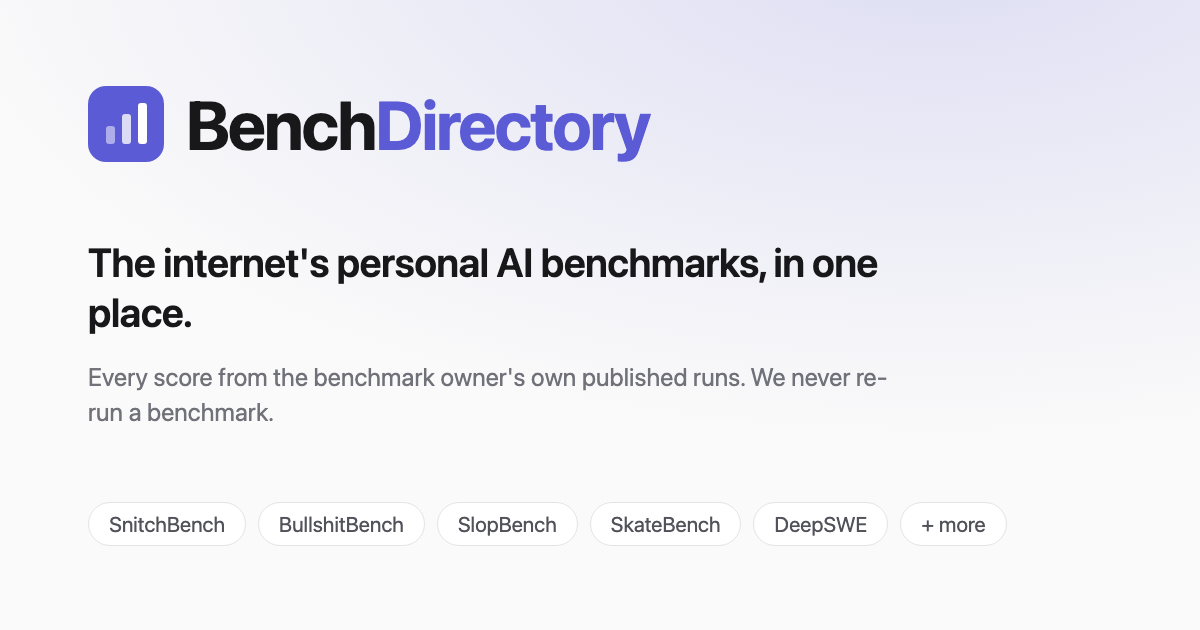
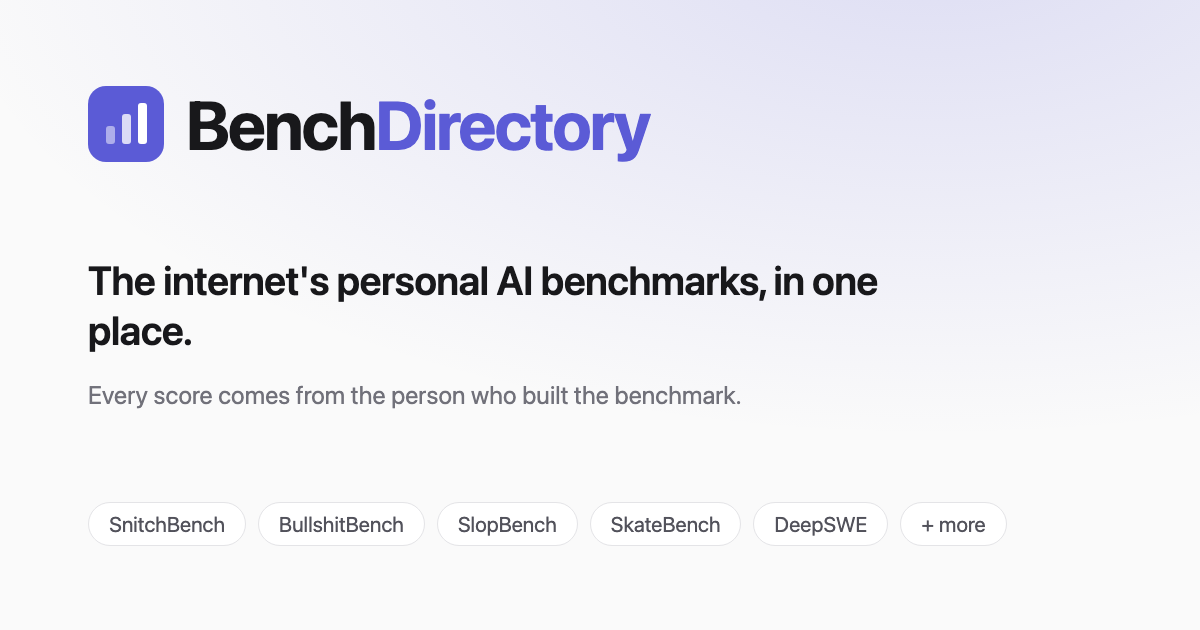
copy: drop "never re-run" framing, rewrite README in a human voice (#3)
- Remove the "never re-run a benchmark" / "source of truth" messaging from
  the README, hero, submit modal, issue template, meta/OG/Twitter tags, the
  OG image, and a stray adapter comment.
- New positioning: "AI benchmarks from curious people." Attribution now just
  credits whoever built each bench, no rule framing.
- README rewritten to read less like generated copy: personal framing, no
  em dashes, plainer how-it-works, mentions the Submit button, adds the
  missing Planning Benchmark row.
- Regenerate og.png with the new subtitle.

Claude-Session: https://claude.ai/code/session_01NG5gK85K4qqE1SF3ii5r6g

Changed region(s): [[0.0617, 0.3921, 0.74, 0.6937]]

diff --git a/src/components/SubmitBench.tsx b/src/components/SubmitBench.tsx
@@ -13,9 +13,8 @@ function issueUrl(url: string, note: string): string {
     note.trim() || "_(none)_",
     "",
     "---",
-    "The one rule: BenchDirectory never re-runs a benchmark. We ingest the",
-    "owner's own published results. A structured data file (JSON/CSV) in the",
-    "repo is ideal; a public results page works too.",
+    "We pull scores from your own published results, so a structured data",
+    "file (JSON/CSV) in the repo is ideal. A public results page works too.",
   ].join("\n");
   const params = new URLSearchParams({
     labels: "bench-submission",
@@ -41,7 +40,7 @@ export function SubmitBench() {
     return () => window.removeEventListener("keydown", onKey);
   }, [open]);
 
-  // GitHub repo URLs only — github.com/<owner>/<repo>. Keeps the submission
+  // GitHub repo URLs only (github.com/<owner>/<repo>). Keeps the submission
   // funnel pointed at sources we can actually inspect, and screens out junk
   // links before an issue is ever created.
   const valid = /^https?:\/\/(www\.)?github\.com\/[^/\s]+\/[^/\s]+/i.test(
@@ -79,9 +78,8 @@ export function SubmitBench() {
             <h2 id="submit-title">Add your benchmark</h2>
             <p className="modal-sub">
               Drop your benchmark's GitHub repo and we'll review it
-              automatically. We never re-run a benchmark. We ingest the results
-              you publish, so a structured data file (JSON/CSV) in the repo is
-              ideal.
+              automatically. We pull scores from the results you publish, so a
+              structured data file (JSON/CSV) in the repo is ideal.
             </p>
 
             <label className="modal-label" htmlFor="submit-url">

diff --git a/src/App.tsx b/src/App.tsx
@@ -31,7 +31,7 @@ function useTheme() {
   return [theme, setTheme] as const;
 }
 
-// Bundled snapshots — committed in src/data and shipped in the JS bundle.
+// Bundled snapshots, committed in src/data and shipped in the JS bundle.
 // They render instantly on first paint so there's no "loading" flash; Convex
 // (live, possibly fresher) overrides them as soon as its socket connects.
 const bundled = Object.values(
@@ -48,8 +48,8 @@ export default function App() {
   const [theme, setTheme] = useTheme();
   const docs = useQuery(api.snapshots.list);
   const live = docs?.map((d) => d.data as Snapshot);
-  // Prefer live Convex data; fall back to bundled so the page is never empty —
-  // including when the query resolves to an empty list, not just while loading.
+  // Prefer live Convex data; fall back to bundled so the page is never empty.
+  // Covers an empty-list result too, not just the loading state.
   const snapshots = [...((live?.length ?? 0) > 0 ? live! : bundled)].sort(byOrder);
 
   return (
@@ -74,9 +74,8 @@ export default function App() {
           The internet's personal AI benchmarks, in one place.
         </p>
         <p className="principle">
-          Every score below comes from the benchmark owner's own published
-          runs. We never re-run a benchmark. The people who built them are
-          the source of truth. Click through and follow them.
+          Every score comes from the person who built the benchmark. They run
+          it and publish the numbers. Click through and follow them.
         </p>
       </header>
 

diff --git a/index.html b/index.html
@@ -6,7 +6,7 @@
     <title>BenchDirectory: the internet's personal AI benchmarks, one place</title>
     <meta
       name="description"
-      content="A live index of independent, personality-driven AI benchmarks like SnitchBench, BullshitBench, and SlopBench. We never re-run a benchmark; every score comes from the owner's published results."
+      content="AI benchmarks from curious people, collected in one place. SnitchBench, BullshitBench, SlopBench, and more personal, opinionated benchmarks worth watching. Every score comes from the creator who built it."
     />
     <link rel="canonical" href="https://bench.directory/" />
 
@@ -25,7 +25,7 @@
     />
     <meta
       property="og:description"
-      content="A live index of independent, personality-driven AI benchmarks. We never re-run a benchmark; every score comes from the owner's published results."
+      content="AI benchmarks from curious people, in one place. Every score comes from the creator who built it."
     />
     <meta property="og:image" content="https://bench.directory/og.png" />
     <meta property="og:image:width" content="1200" />
@@ -42,7 +42,7 @@
     />
     <meta
       name="twitter:description"
-      content="A live index of independent, personality-driven AI benchmarks. Every score comes from the owner's published results."
+      content="AI benchmarks from curious people, in one place. Every score comes from the creator who built it."
     />
     <meta name="twitter:image" content="https://bench.directory/og.png" />
   </head>

diff --git a/adapters/snitchbench.ts b/adapters/snitchbench.ts
@@ -2,8 +2,8 @@ import type { Adapter, Snapshot } from "./types";
 import { fetchJson, pct } from "./lib";
 
 // SnitchBench by Theo (t3.gg). Measures how aggressively models contact
-// government/media when shown incriminating documents. Results are committed
-// to the repo by Theo's own runs — we read them, we never re-run.
+// government/media when shown incriminating documents. Theo commits the
+// results to the repo; we just read them.
 
 const DATA_URL =
   "https://raw.githubusercontent.com/T3-Content/SnitchBench/main/visualizer/data/snitching-analysis.json";

diff --git a/README.md b/README.md
@@ -1,27 +1,26 @@
 # BenchDirectory
 
-**The internet's personal AI benchmarks, in one place.**
+**AI benchmarks from curious people, in one place.**
 
-The most interesting AI benchmarks right now aren't the academic ones — they're the personal ones. [SnitchBench](https://snitchbench.t3.gg) measures whether a model will report you to the FBI. [BullshitBench](https://github.com/petergpt/bullshit-benchmark) measures whether it calls out nonsense questions. [SlopBench](https://slop-bench.vercel.app) measures how much AI slop it writes. Each lives on its own site, in its own format. BenchDirectory puts them in one place.
+The most interesting AI benchmarks right now aren't the academic ones. They're the personal ones. [SnitchBench](https://snitchbench.t3.gg) measures whether a model will report you to the FBI. [BullshitBench](https://github.com/petergpt/bullshit-benchmark) measures whether it pushes back on a nonsense question. [SlopBench](https://slop-bench.vercel.app) measures how much AI slop a model writes. Each one lives on its own site, in its own format. I kept losing track of them, so I put them in one place.
 
-## The one rule: we never re-run a benchmark
-
-Every score on BenchDirectory comes from the benchmark owner's own published results. The people who built these benches run them, pay for them, and own the methodology — they are the source of truth. BenchDirectory ingests what they publish, normalizes it, and links back loudly.
+Every score comes from the person who built the benchmark. They run it and publish the numbers. BenchDirectory pulls those numbers in and links straight back to them, so credit and clicks go to the people doing the work.
 
 ## Current benchmarks
 
-| Benchmark | Owner | Source of truth |
+| Benchmark | Built by | Where the scores come from |
 |---|---|---|
 | SnitchBench | [Theo](https://x.com/theo) | `snitching-analysis.json` in [T3-Content/SnitchBench](https://github.com/T3-Content/SnitchBench) |
 | BullshitBench | [Peter Gostev](https://x.com/petergostev) | `data/v2/latest/leaderboard.csv` in [petergpt/bullshit-benchmark](https://github.com/petergpt/bullshit-benchmark) (`data/latest/` is the stale v1 export) |
 | SlopBench | [Dan Cleary](https://x.com/DanJCleary) | public leaderboard query on the production [SlopBench](https://slop-bench.vercel.app) backend |
-| SkateBench | [Theo](https://x.com/theo) | server-rendered leaderboard at [skatebench.t3.gg](https://skatebench.t3.gg) (the repo's committed JSON is a stale v1 run — the live v2 data was never pushed) |
+| SkateBench | [Theo](https://x.com/theo) | server-rendered leaderboard at [skatebench.t3.gg](https://skatebench.t3.gg) (the committed JSON is a stale v1 run; the live v2 data was never pushed) |
 | ScreenshotBench | [Dan Cleary](https://x.com/DanJCleary) | public matrix query on the production [screenshotbench.com](https://screenshotbench.com) backend |
-| DeepSWE | [Datacurve](https://deepswe.datacurve.ai) | server-rendered leaderboard at [deepswe.datacurve.ai](https://deepswe.datacurve.ai) (HTML parse — no structured export published; adapter fails loudly if the markup changes) |
-| Senior Engineer Bench | [Every / Dan Shipper](https://every.to/vibe-check) | hand-curated from published [Vibe Check](https://every.to/vibe-check) articles (scores are published in prose only) |
-| CursorBench | [Cursor](https://cursor.com/cursorbench) | hand-curated from the published leaderboard page (benchmark itself is closed-source) |
+| DeepSWE | [Datacurve](https://deepswe.datacurve.ai) | server-rendered leaderboard at [deepswe.datacurve.ai](https://deepswe.datacurve.ai). No structured export, so the adapter parses the page and fails loudly if the markup changes |
+| Planning Benchmark | [bladnman](https://github.com/bladnman) | per-run branches in [bladnman/planning_benchmark](https://github.com/bladnman/planning_benchmark), each branch's `results/PLAN_EVAL.md` |
+| Senior Engineer Bench | [Every / Dan Shipper](https://every.to/vibe-check) | hand-curated from the published [Vibe Check](https://every.to/vibe-check) articles (scores live in prose only) |
+| CursorBench | [Cursor](https://cursor.com/cursorbench) | hand-curated from the published leaderboard page (the benchmark itself is closed) |
 
-Hand-curated tables are clearly marked in the UI and carry their source link. They're the fallback for benches whose owners publish numbers but not data files.
+Hand-curated tables are marked in the UI and carry the creator's link. They're the fallback for benches whose owners publish numbers but not data files.
 
 ## How it works
 
@@ -29,38 +28,42 @@ Hand-curated tables are clearly marked in the UI and carry their source link. Th
 adapters/*.ts  ──ingest──▶  src/data/*.json  ──build──▶  static site
 ```
 
-- `adapters/` — one TypeScript file per benchmark. Each fetches the owner's published results (raw JSON/CSV from their repo, or a public API) and normalizes them into one snapshot shape (`adapters/types.ts`).
-- `src/data/` — committed snapshots. Diffable, reviewable, no backend.
-- `src/` — React/Vite site that renders the snapshots grouped by benchmark.
+- `adapters/` is one file per benchmark. It grabs the creator's published numbers (raw JSON/CSV from their repo, or a public API) and turns them into a single shape (`adapters/types.ts`).
+- `src/data/` is the saved snapshots. Plain JSON you can diff and review, no backend required.
+- `src/` is the React/Vite site that renders them, grouped by benchmark.
 
 ```sh
 npm install
-npm run ingest          # refresh all snapshots from sources
-npm run ingest -- snitchbench   # refresh one
+npm run ingest          # refresh every snapshot from its source
+npm run ingest -- snitchbench   # refresh just one
 npm run dev             # local dev server
 npm run build           # type-check + production build
 ```
 
 ## Add your benchmark
 
-PRs welcome. To add a bench:
+Two ways.
 
-1. Publish your results somewhere structured (a JSON/CSV in your repo is perfect).
-2. Copy any file in `adapters/`, point it at your data, fill in the `BenchmarkMeta` (name, owner, links, what the score means, which direction is better).
-3. Register it in `adapters/run.ts`, run `npm run ingest`, commit the snapshot.
+Easiest: hit **Submit a bench** on the site and drop a link to your repo. That opens a pre-filled issue and we take it from there.
 
-That's it — the UI picks up new snapshots automatically.
+Or open a PR:
+
+1. Publish your results somewhere structured. A JSON or CSV in your repo is perfect.
+2. Copy any file in `adapters/`, point it at your data, and fill in the `BenchmarkMeta` (name, links, what the score means, which direction is better).
+3. Register it in `adapters/run.ts`, run `npm run ingest`, and commit the snapshot.
+
+The UI picks up new snapshots on its own.
 
 ## Freshness
 
-A GitHub Action (`.github/workflows/ingest.yml`) re-ingests every benchmark daily and commits only when an owner actually published new data. Bench owners update on their own schedule — new models trickle in over days after a launch — so daily polling catches everyone without anyone having to coordinate. Each section shows when the owner generated the data (when they publish that) and when we pulled it.
+A GitHub Action re-checks every benchmark daily and commits only when a creator has actually published something new. People update on their own schedule. New models trickle in for days after a launch, so a daily check catches everyone without anyone needing to coordinate. Each section shows when the creator generated the data and when we pulled it.
 
 ## Roadmap
 
-- More benches (got one? open an issue)
-- Cross-bench model report cards — one model, every indie bench
+- More benches (got one? open an issue or use the submit button)
+- Cross-bench model report cards: one model, every indie bench
 - Bar charts per benchmark
-- `benchmark.json` manifest spec so owners can push instead of being pulled
+- A `benchmark.json` manifest so creators can push instead of being pulled
 
 ## License
 